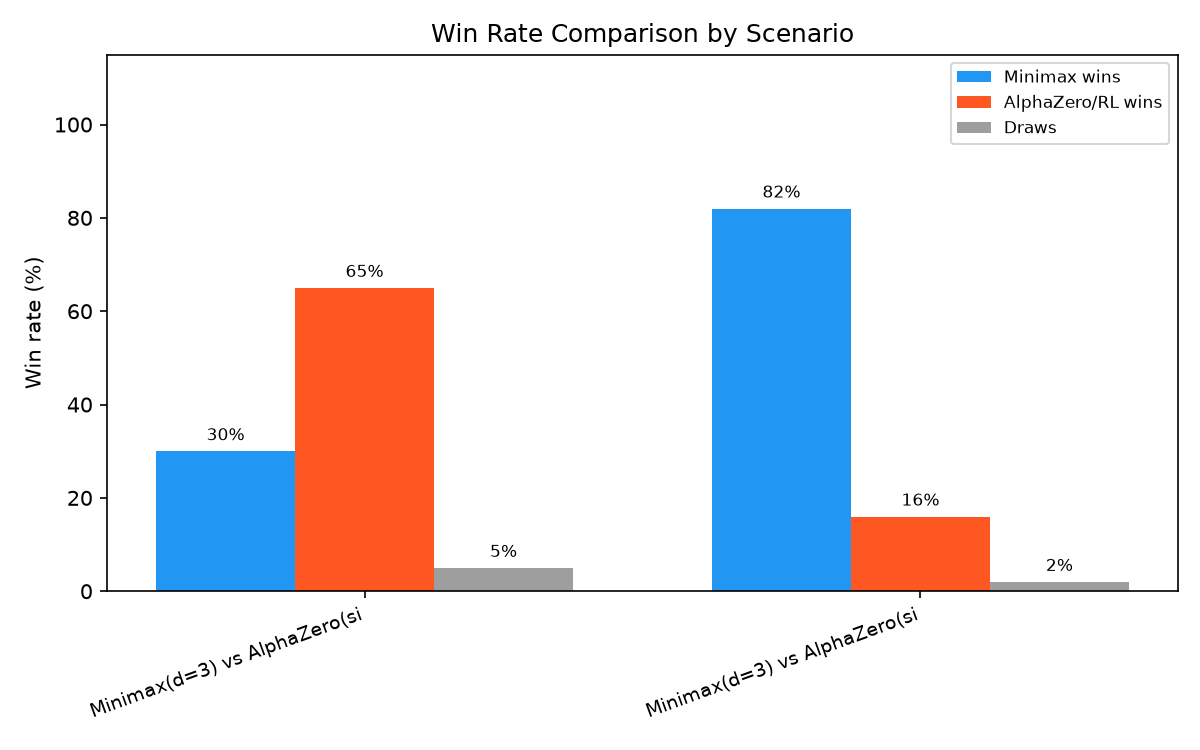
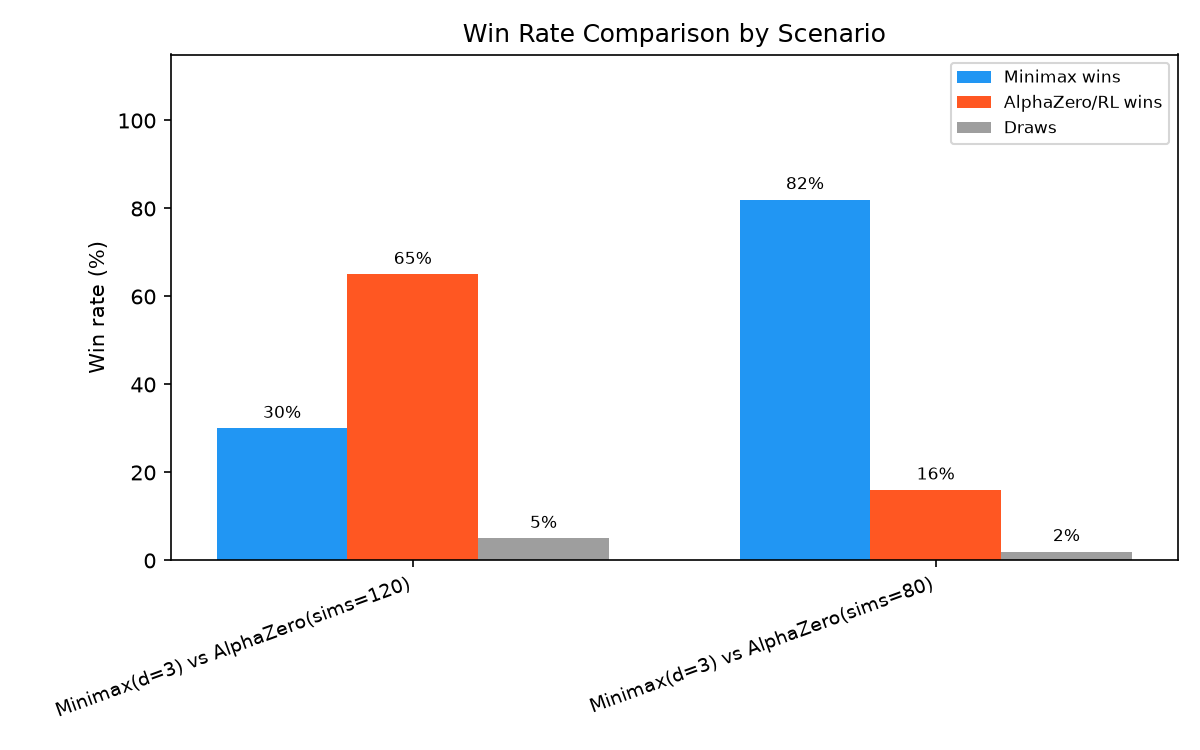
fix: show sims=80/120 labels in win rate chart

diff --git a/src/scripts/plot_training.py b/src/scripts/plot_training.py
@@ -83,7 +83,7 @@ def plot_win_rate_comparison(rows: list[dict]) -> str:
         d = sum(1 for r in matches if r["winner"] == "Draw")
         total = len(matches)
 
-        short = name[:28]
+        short = name[:45]
         labels.append(short)
         mm_wins.append(m / total * 100)
         az_wins.append(a / total * 100)